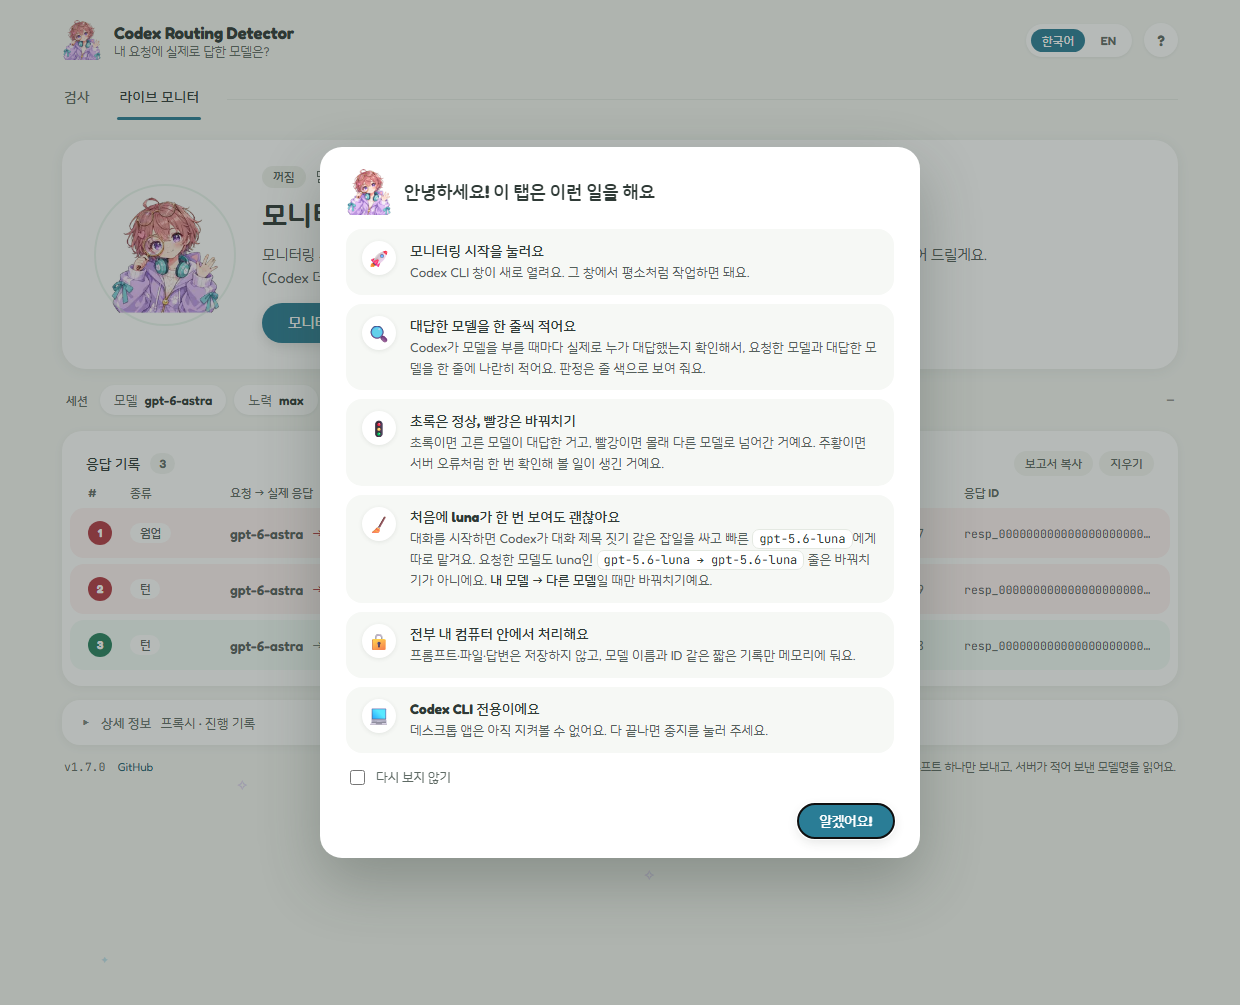
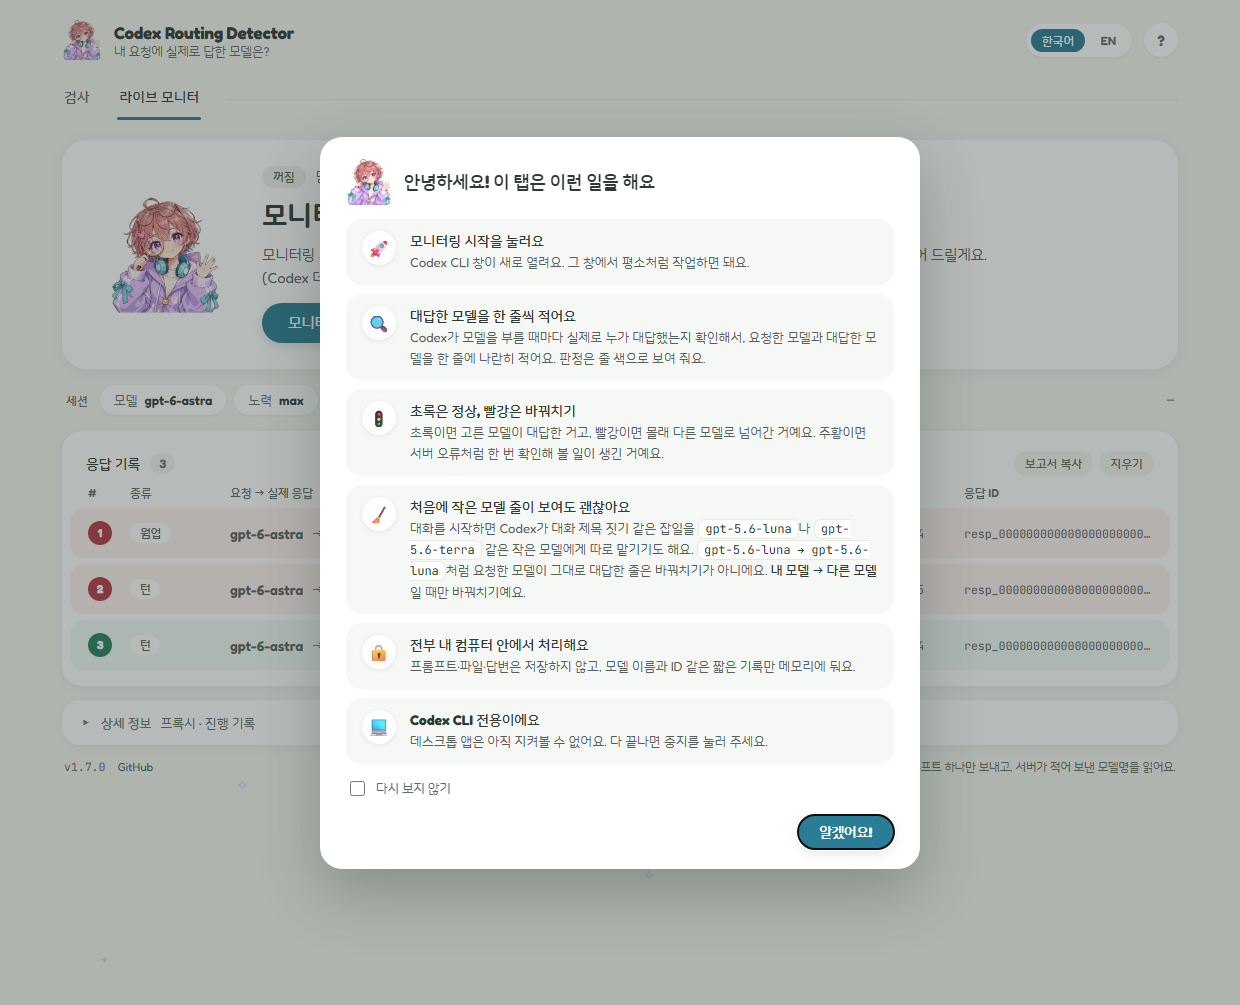
Count a turn Codex retried after "at capacity"; no ring behind the mascot
Checker
- A turn that got 429 turn_rate_limit_exceeded is sent again by Codex as
  a fresh request without previous_response_id. That answer was taken
  for a warm-up and the probe said ERROR although the model answered as
  asked (seen on gpt-5.6-luna on 2026-10-30). A response that starts
  after such an error and writes output is now the turn, and the report
  notes the retry. Earlier responses with output stay warm-ups, so one
  can never stand in for a failed turn. The run is kept, anonymised, as
  tests/fixtures/luna_turn_retried_after_capacity.log.
- The summary says "were served" when it names several models.
- The built-in model list adds gpt-daybreak-blue-latest, matching
  Codex's catalog.

Window and docs
- The verdict card no longer draws a ring behind the mascot.
- Codex's own side requests at the start of a session go to a smaller
  model that varies (gpt-5.6-terra beside gpt-6.1-sol now, gpt-5.6-luna
  before); the live guide, the fallback window and both READMEs say so.
- Screenshots redrawn.

diff --git a/tests/test_parse.py b/tests/test_parse.py
@@ -343,6 +343,13 @@ class Summary(unittest.TestCase):
         self.assertEqual((overall, code), ("OK", 0))
         self.assertEqual(lines[0], "VERDICT: OK - gpt-6-astra was served as requested.")
 
+    def test_several_models_take_a_plural_verb(self):
+        # regression: "gpt-6-sol, gpt-6-luna was served as requested" on a nine-model run
+        ok = [probe("gpt-6-sol", [rec("resp_a", "gpt-6-sol")]), probe("gpt-6-luna", [rec("resp_b", "gpt-6-luna")], index=2)]
+        self.assertEqual(cmc.summarize(ok)[2][0], "VERDICT: OK - gpt-6-luna, gpt-6-sol were served as requested.")
+        failed = probe("gpt-5.6-luna", stream_errors=[("server_is_overloaded", "busy")], index=3)
+        self.assertIn("gpt-6-luna, gpt-6-sol were served as requested.", cmc.summarize(ok + [failed])[2][0])
+
     def test_rerouted_control_alone_is_still_exit_2(self):
         probes = [probe("gpt-6-astra", [rec("resp_a", "gpt-6-astra")]),
                   probe("gpt-5.6-sol", [rec("resp_b", "gpt-5.6-luna")], is_control=True, index=2)]
@@ -603,6 +610,56 @@ class RunProbeNotes(unittest.TestCase):
     @staticmethod
     def _frame(obj):
         return "x TRACE tungstenite::protocol: Received message " + json.dumps(obj)
+
+    def test_turn_retried_after_capacity_error_is_ok(self):
+        # regression (2026-10-30, real run): the turn got 429 "Codex is at capacity", Codex waited out
+        # Retry-After and sent it again as a fresh request without previous_response_id. That answer
+        # (5 output tokens, from gpt-5.6-luna as asked) was taken for a warm-up and the probe said ERROR.
+        import tempfile
+        original = cmc.run_capture
+        text = load("luna_turn_retried_after_capacity.log").encode("utf-8")
+        cmc.run_capture = lambda cmd, timeout, env=None, cwd=None, on_start=None: (0, b"pong\n", text, False)
+        try:
+            with tempfile.TemporaryDirectory() as d:
+                p = cmc.Probe(index=1, requested="gpt-5.6-luna", effort="low", tier=None, is_control=False, method="trace")
+                p = cmc.run_probe(["codex"], p, "p", 10, False, pathlib.Path(d), None)
+        finally:
+            cmc.run_capture = original
+        self.assertEqual([r.kind for r in p.responses], ["warmup", "turn"])
+        self.assertEqual(p.verdict(), "ok")
+        self.assertTrue(any("first answered turn_rate_limit_exceeded" in n for n in p.notes), p.notes)
+        overall, code, lines = cmc.summarize([p])
+        self.assertEqual((overall, code), ("OK", 0))
+
+    def test_side_request_with_output_never_stands_in_for_a_failed_turn(self):
+        # a response without previous_response_id that wrote output before any error (a warm-up or a
+        # side request) stays a warm-up, so a failed real turn still makes the probe ERROR
+        p = self._run([
+            self._frame({"type": "response.completed", "response": {"id": "resp_w", "model": "gpt-6-astra", "status": "completed",
+                                                                     "usage": {"input_tokens": 300, "output_tokens": 7}}}),
+            self._frame({"type": "response.failed", "response": {"id": "resp_t", "model": "gpt-6-astra", "status": "failed",
+                                                                  "previous_response_id": "resp_w",
+                                                                  "error": {"code": "server_error", "message": "boom"}}})])
+        self.assertEqual([r.kind for r in p.responses], ["warmup", "turn"])
+        self.assertEqual(p.verdict(), "ERROR")
+
+    def test_error_after_a_good_turn_is_not_called_a_retry(self):
+        p = self._run([
+            self._frame({"type": "response.completed", "response": {"id": "resp_w", "model": "gpt-6-astra", "status": "completed"}}),
+            self._frame({"type": "response.completed", "response": {"id": "resp_t", "model": "gpt-6-astra", "status": "completed",
+                                                                     "previous_response_id": "resp_w",
+                                                                     "usage": {"input_tokens": 300, "output_tokens": 7}}}),
+            self._frame({"type": "error", "error": {"code": "websocket_connection_limit_reached", "message": "later"}})])
+        self.assertEqual(p.verdict(), "ok")
+        self.assertFalse(any("tried again" in n for n in p.notes), p.notes)
+
+    def test_warmup_without_output_stays_a_warmup(self):
+        p = self._run([self._frame({"type": "response.completed", "response": {
+                           "id": "resp_w", "model": "gpt-6-astra", "status": "completed",
+                           "usage": {"input_tokens": 2, "output_tokens": 0}}})],
+                      timed_out=True)
+        self.assertEqual(p.responses[0].kind, "warmup")
+        self.assertEqual(p.verdict(), "UNKNOWN")  # a warm-up alone still proves nothing about the turn
 
     def test_warmup_only_is_unknown_with_note(self):
         p = self._run([self._frame({"type": "response.created", "response": {"id": "resp_w", "model": "gpt-6-astra", "status": "in_progress"}}),

diff --git a/codex_routing_detector.py b/codex_routing_detector.py
@@ -134,6 +134,8 @@ class ResponseRecord:
     error_code: Optional[str] = None
     error_message: Optional[str] = None
     usage: Optional[dict] = None
+    after_error: bool = False  # it started after a stream error that belonged to no response
+    retried_turn: bool = False  # the turn Codex sent again after that error (see ResponseCollector.feed)
 
     def verdict(self, requested: str) -> str:
         if is_unsupported_error(self.error_code, self.error_message):
@@ -298,6 +300,7 @@ class ResponseCollector:
                     response_id=rid, model=None, status=None,
                     service_tier=r.get("service_tier"), created_at=r.get("created_at"),
                     kind="turn" if r.get("previous_response_id") else "warmup",
+                    after_error=bool(self.stream_errors),
                 )
                 self.by_id[rid] = rec
                 self.order.append(rid)
@@ -313,6 +316,13 @@ class ResponseCollector:
                 rec.created_at = r.get("created_at")
             if r.get("usage"):
                 rec.usage = r["usage"]
+                # After "at capacity" Codex resends the turn as a fresh request, without
+                # previous_response_id. Codex's warm-up asks for no output, so a response that starts
+                # after such an error and writes output is that turn. Only then: earlier side requests
+                # with output stay what they are, or one of them could stand in for a failed turn.
+                out_tokens = r["usage"].get("output_tokens") if isinstance(r["usage"], dict) else None
+                if rec.kind == "warmup" and rec.after_error and isinstance(out_tokens, int) and out_tokens > 0:
+                    rec.kind, rec.retried_turn = "turn", True
             err = r.get("error")
             if isinstance(err, dict) and (err.get("code") or err.get("message")):
                 rec.error_code = err.get("code") or err.get("type") or rec.error_code
@@ -831,6 +841,9 @@ def run_probe(codex: List[str], probe: Probe, prompt: str, timeout: float, ephem
         probe.notes.append(f"wire request frames carried model(s) {sorted(set(probe.wire_requested))}")
     turns = probe.turns()
     tv = [r.verdict(probe.requested) for r in turns]
+    if probe.verdict() == "ok" and any(r.retried_turn for r in turns):
+        codes = ", ".join(sorted({c or "?" for c, _ in probe.stream_errors}))
+        probe.notes.append(f"the server first answered {codes}; Codex tried again and that turn was served as requested")
     if probe.verdict() == "REROUTED":
         if turns and all(v == "ok" for v in tv):
             probe.notes.append("only the warm-up request was served by another model; the turn itself was served as requested")
@@ -884,6 +897,11 @@ def _continuation(text: str, width: int = 110) -> List[str]:
     return ["     " + l for l in lines]
 
 
+def _verb(names: List[str], one: str, many: str) -> str:
+    """`one` after a single model name, `many` after a list of several."""
+    return one if len(names) == 1 else many
+
+
 def summarize(probes: List[Probe]) -> Tuple[str, int, List[str]]:
     """Overall verdict, exit code and the summary lines."""
     main = [p for p in probes if not p.is_control]
@@ -912,7 +930,7 @@ def summarize(probes: List[Probe]) -> Tuple[str, int, List[str]]:
         overall, code = "REROUTED", 2
     elif ctrl_rerouted:
         lines.append("VERDICT: REROUTED - the control model " + ", ".join(sorted({p.requested for p in ctrl_rerouted}))
-                     + " was served by a different model" + (f"; {', '.join(ok)} was fine." if ok else "."))
+                     + " was served by a different model" + (f"; {', '.join(ok)} {_verb(ok, 'was', 'were')} fine." if ok else "."))
         overall, code = "REROUTED", 2
     elif unsupported and not ok and not unchecked:
         lines.append(f"VERDICT: UNSUPPORTED - this account cannot use {', '.join(unsupported)}{plan_s}; "
@@ -923,11 +941,11 @@ def summarize(probes: List[Probe]) -> Tuple[str, int, List[str]]:
         if unchecked:
             parts.append("could not check " + ", ".join(unchecked) + " (see notes / ERROR rows)")
         if unsupported:
-            parts.append(f"{', '.join(unsupported)} is not available on this account{plan_s}")
-        lines.append("VERDICT: " + "; ".join(parts) + (f"; {', '.join(ok)} was served as requested." if ok else "."))
+            parts.append(f"{', '.join(unsupported)} {_verb(unsupported, 'is', 'are')} not available on this account{plan_s}")
+        lines.append("VERDICT: " + "; ".join(parts) + (f"; {', '.join(ok)} {_verb(ok, 'was', 'were')} served as requested." if ok else "."))
         overall, code = "ERROR", 1
     else:
-        lines.append(f"VERDICT: OK - {', '.join(ok)} was served as requested.")
+        lines.append(f"VERDICT: OK - {', '.join(ok)} {_verb(ok, 'was', 'were')} served as requested.")
         if any(p.verdict() != "ok" for p in main):
             lines.append("note: some repeats could not be checked (see the ERROR rows and notes).")
         overall, code = "OK", 0

diff --git a/codex_routing_webui.py b/codex_routing_webui.py
@@ -196,7 +196,6 @@ button:disabled { cursor: default; }
 @keyframes sniff { 0%, 100% { transform: translateY(0) rotate(-3deg) } 30% { transform: translateY(-4px) rotate(3deg) } 60% { transform: translateY(-1px) rotate(-2deg) } }
 @keyframes idleBreath { 0%, 100% { transform: scale(1) } 50% { transform: scale(1.025) } }
 @keyframes walk { 0% { left: 0% } 100% { left: calc(100% - 30px) } }
-@keyframes pulseRing { 0% { transform: scale(.7); opacity: .55 } 100% { transform: scale(1.45); opacity: 0 } }
 @keyframes slideTab { 0% { transform: translateX(22px); opacity: 0 } 100% { transform: translateX(0); opacity: 1 } }
 @keyframes confetti { 0% { transform: translate(0, 0) rotate(0deg); opacity: 0 } 12% { opacity: 1 } 100% { transform: translate(var(--dx), 190px) rotate(var(--rot)); opacity: 0 } }
 
@@ -237,8 +236,6 @@ button:disabled { cursor: default; }
   border-radius: 24px; padding: 26px 28px; box-shadow: 0 2px 14px rgba(47,58,51,.07); }
 .hero.bop { animation: bopIn .5s cubic-bezier(.2,.9,.3,1.3) both; }
 .hero .left { position: relative; width: 150px; flex: none; display: grid; place-items: center; }
-.hero .ring { position: absolute; width: 142px; height: 142px; border-radius: 999px;
-  border: 2px solid #cfe6d8; opacity: .45; }
 .hero .mascot { width: 124px; height: 124px; object-fit: contain; animation: idleBreath 3.4s ease-in-out infinite; }
 .hero .right { flex: 1; display: flex; flex-direction: column; gap: 10px; min-width: 0; }
 .hero .statusrow { display: flex; align-items: center; gap: 10px; }
@@ -283,11 +280,9 @@ button:disabled { cursor: default; }
 /* hero tones */
 .hero[data-tone="running"] { background: #eef6fa; }
 .hero[data-tone="running"] .headline { color: #1f5b70; }
-.hero[data-tone="running"] .ring { border-color: #9fd8e8; opacity: 1; animation: pulseRing 1.6s ease-out infinite; }
 .hero[data-tone="running"] .mascot { animation: sniff .9s ease-in-out infinite; }
 .hero[data-tone="bad"] { background: #fdf0f0; }
 .hero[data-tone="bad"] .headline { color: #a8323b; }
-.hero[data-tone="bad"] .ring { border-color: #f3bfc1; }
 .hero[data-tone="bad"] .mascot { animation: bounce 2.6s ease-in-out infinite; }
 .hero[data-tone="ok"] { background: #eff9f3; }
 .hero[data-tone="ok"] .headline { color: #1f6f52; }
@@ -485,7 +480,7 @@ button:disabled { cursor: default; }
 
   <div class="page" id="page-check">
     <div class="hero" id="c-hero" data-tone="idle">
-      <div class="left"><div class="ring"></div><img class="mascot" src="__MASCOT__" alt=""></div>
+      <div class="left"><img class="mascot" src="__MASCOT__" alt=""></div>
       <div class="right">
         <div class="statusrow"><span class="chip" id="c-chip"></span><span class="statusline" id="c-status"></span></div>
         <div class="headline" id="c-head"></div>
@@ -537,7 +532,7 @@ button:disabled { cursor: default; }
 
   <div class="page hidden" id="page-live">
     <div class="hero" id="l-hero" data-tone="idle">
-      <div class="left"><div class="ring"></div><img class="mascot" src="__MASCOT__" alt=""></div>
+      <div class="left"><img class="mascot" src="__MASCOT__" alt=""></div>
       <div class="right">
         <div class="statusrow"><span class="chip" id="l-chip"></span><span class="statusline" id="l-status"></span></div>
         <div class="headline" id="l-head"></div>

diff --git a/codex_routing_webtext.py b/codex_routing_webtext.py
@@ -292,10 +292,10 @@ HELP: Dict[str, dict] = {
                 {"icon": "🚦", "title": "초록은 정상, 빨강은 바꿔치기",
                  "text": "초록이면 고른 모델이 대답한 거고, 빨강이면 몰래 다른 모델로 넘어간 거예요. 주황이면 서버 "
                          "오류처럼 한 번 확인해 볼 일이 생긴 거예요."},
-                {"icon": "🧹", "title": "처음에 luna가 한 번 보여도 괜찮아요",
-                 "text": "대화를 시작하면 Codex가 대화 제목 짓기 같은 잡일을 싸고 빠른 `gpt-5.6-luna`에게 따로 "
-                         "맡겨요. 요청한 모델도 luna인 `gpt-5.6-luna → gpt-5.6-luna` 줄은 바꿔치기가 아니에요. "
-                         "**내 모델 → 다른 모델**일 때만 바꿔치기예요."},
+                {"icon": "🧹", "title": "처음에 작은 모델 줄이 보여도 괜찮아요",
+                 "text": "대화를 시작하면 Codex가 대화 제목 짓기 같은 잡일을 `gpt-5.6-luna`나 `gpt-5.6-terra` 같은 "
+                         "작은 모델에게 따로 맡기기도 해요. `gpt-5.6-luna → gpt-5.6-luna`처럼 요청한 모델이 그대로 "
+                         "대답한 줄은 바꿔치기가 아니에요. **내 모델 → 다른 모델**일 때만 바꿔치기예요."},
                 {"icon": "🔒", "title": "전부 내 컴퓨터 안에서 처리해요",
                  "text": "프롬프트·파일·답변은 저장하지 않고, 모델 이름과 ID 같은 짧은 기록만 메모리에 둬요."},
                 {"icon": "💻", "title": "Codex CLI 전용이에요",
@@ -442,10 +442,11 @@ HELP: Dict[str, dict] = {
                 {"icon": "🚦", "title": "Green is good, red is a switcheroo",
                  "text": "Green means the model you chose answered. Red means it was quietly swapped for another "
                          "one. Amber means something needs a look, like a server error."},
-                {"icon": "🧹", "title": "A luna line at the start is fine",
-                 "text": "When a conversation starts, Codex hands small chores such as naming the conversation to "
-                         "the cheap, fast `gpt-5.6-luna`. A `gpt-5.6-luna → gpt-5.6-luna` line asked for luna too, so "
-                         "it's not a switcheroo. Only **your model → another model** is."},
+                {"icon": "🧹", "title": "A small-model line at the start is fine",
+                 "text": "When a conversation starts, Codex may hand small chores such as naming the conversation to "
+                         "a smaller model like `gpt-5.6-luna` or `gpt-5.6-terra`. A line such as "
+                         "`gpt-5.6-luna → gpt-5.6-luna` asked for that model and got it, so it's not a switcheroo. "
+                         "Only **your model → another model** is."},
                 {"icon": "🔒", "title": "Everything stays on your computer",
                  "text": "Prompts, files and answers are never saved; only short records like model names and ids "
                          "are kept in memory."},

diff --git a/codex_routing_detector_gui.py b/codex_routing_detector_gui.py
@@ -41,7 +41,7 @@ GITHUB_ICON_PNG_B64 = (
 # gpt-6-astra stays first: with neither a model in config.toml nor models_cache.json it is the
 # window's default, as in the terminal version.
 FALLBACK_MODELS = ["gpt-6-astra", "gpt-6.1-sol", "gpt-6.1-terra", "gpt-6-sol", "gpt-6-luna",
-                   "gpt-5.6-sol", "gpt-5.6-terra", "gpt-5.6-luna"]
+                   "gpt-5.6-sol", "gpt-5.6-terra", "gpt-5.6-luna", "gpt-daybreak-blue-latest"]
 EFFORTS = ["low", "medium", "high", "xhigh"]
 MAX_REPEAT = 10
 
@@ -132,8 +132,8 @@ STRINGS: Dict[str, Dict[str, str]] = {
             "\U0001F50D  Every time Codex calls a model, this tab checks which model really answered\n"
             "and adds a line: the model Codex asked for, the model that answered, and the verdict.\n\n"
             "\U0001F7E2  Green: the model you chose answered.\n\U0001F534  Red: it was quietly routed to another model.\n\n"
-            "\U0001F9F9  A luna line at the start is fine: Codex hands chores such as naming the conversation\n"
-            "to gpt-5.6-luna. Only your model -> another model is a reroute.\n\n"
+            "\U0001F9F9  A small-model line at the start is fine: Codex may hand chores such as naming the\n"
+            "conversation to gpt-5.6-luna or gpt-5.6-terra. Only your model -> another model is a reroute.\n\n"
             "\U0001F512  Everything stays on your computer.\nPrompts, files and answers are never saved; only model names and ids are kept.\n\n"
             "\U0001F4BB  Codex CLI only (not the Codex desktop app).\nWhen you are done, press Stop."
         ),
@@ -227,8 +227,8 @@ STRINGS: Dict[str, Dict[str, str]] = {
             "\U0001F50D  Codex가 모델을 호출할 때마다 실제로 어떤 모델이 답했는지 확인해서\n"
             "여기에 한 줄씩 적어요. 요청한 모델, 실제로 답한 모델, 판정이 나란히 보여요.\n\n"
             "\U0001F7E2  초록: 고른 모델이 답했어요.\n\U0001F534  빨강: 몰래 다른 모델로 라우팅됐어요.\n\n"
-            "\U0001F9F9  처음에 luna가 한 번 보여도 괜찮아요. Codex가 대화 제목 짓기 같은 잡일을\n"
-            "gpt-5.6-luna에게 맡기는 거예요. 내 모델 → 다른 모델일 때만 바꿔치기예요.\n\n"
+            "\U0001F9F9  처음에 작은 모델 줄이 보여도 괜찮아요. Codex가 대화 제목 짓기 같은 잡일을\n"
+            "gpt-5.6-luna나 gpt-5.6-terra에게 맡기기도 해요. 내 모델 → 다른 모델일 때만 바꿔치기예요.\n\n"
             "\U0001F512  전부 내 컴퓨터 안에서만 일어나요.\n프롬프트·파일·답변은 저장하지 않고, 모델명과 ID만 기억해요.\n\n"
             "\U0001F4BB  Codex CLI에서만 돼요 (데스크톱 앱은 아직 안 돼요).\n다 끝나면 중지를 눌러 주세요."
         ),

diff --git a/tests/test_webui.py b/tests/test_webui.py
@@ -512,14 +512,17 @@ class WebWording(WebUiBase):
         self.assertIn("usage", helps["ko"])
 
     def test_live_guide_explains_codex_side_requests(self):
-        # Codex sends its own gpt-5.6-luna requests (conversation title and similar chores) at the
-        # start of a session; users read that ok line as a reroute unless the guide says so
+        # Codex sends its own requests to a smaller model (conversation title and similar chores) at
+        # the start of a session; users read that ok line as a reroute unless the guide says so. The
+        # model varies: gpt-5.6-luna in September 2026, gpt-5.6-terra beside gpt-6.1-sol in October.
         import codex_routing_webtext as wt
         for lang in ("ko", "en"):
             guide = json.dumps(wt.HELP[lang]["guide"], ensure_ascii=False)
             self.assertIn("gpt-5.6-luna → gpt-5.6-luna", guide, lang)
+            self.assertIn("gpt-5.6-terra", guide, lang)
         for lang in ("en", "ko"):
-            self.assertIn("gpt-5.6-luna", gui.STRINGS[lang]["guide_body"], lang)
+            for slug in ("gpt-5.6-luna", "gpt-5.6-terra"):
+                self.assertIn(slug, gui.STRINGS[lang]["guide_body"], lang)
 
     def test_model_names_are_bold_in_the_brief(self):
         c = self.check_as("gpt-6-astra", "en")
@@ -592,9 +595,10 @@ class ModelCatalog(WebUiBase):
         self.assertIn('eff.dataset.key !== effKey', webui.PAGE)
 
     def test_builtin_model_list_has_the_current_catalog_models(self):
-        # Codex's listed models as of 2026-10-27, gpt-6-astra first; gpt-5.5 has left the catalog.
+        # Codex's listed models as of 2026-10-30, gpt-6-astra first; gpt-5.5 has left the catalog.
         self.assertEqual(gui.FALLBACK_MODELS, ["gpt-6-astra", "gpt-6.1-sol", "gpt-6.1-terra", "gpt-6-sol",
-                                               "gpt-6-luna", "gpt-5.6-sol", "gpt-5.6-terra", "gpt-5.6-luna"])
+                                               "gpt-6-luna", "gpt-5.6-sol", "gpt-5.6-terra", "gpt-5.6-luna",
+                                               "gpt-daybreak-blue-latest"])
 
     def test_window_without_config_or_catalog_defaults_to_the_terminal_default(self):
         d = pathlib.Path(tempfile.mkdtemp())  # no config.toml, no models_cache.json

diff --git a/README.md b/README.md
@@ -88,9 +88,10 @@ away.
 ![Live monitor tab during a session](docs/screenshot-live.png)
 
 - **It costs nothing extra.** The monitor sends no requests of its own.
-- **A `gpt-5.6-luna → gpt-5.6-luna` line at the start is normal.** When a conversation starts,
-  Codex hands small chores such as naming the conversation to the cheap, fast luna. Only *your
-  model → another model* is a reroute.
+- **A small-model line at the start is normal.** When a conversation starts, Codex may hand small
+  chores such as naming the conversation to a smaller model like `gpt-5.6-luna` or `gpt-5.6-terra`.
+  A line such as `gpt-5.6-luna → gpt-5.6-luna` asked for that model and got it. Only *your model →
+  another model* is a reroute.
 - **Session** shows the `model` and `model_reasoning_effort` from `config.toml`. **Folder** is
   where the Codex window opens, and the app remembers it.
 - **Stop** closes the Codex window too. Closing Codex yourself (`/exit` or Ctrl-C) ends the
